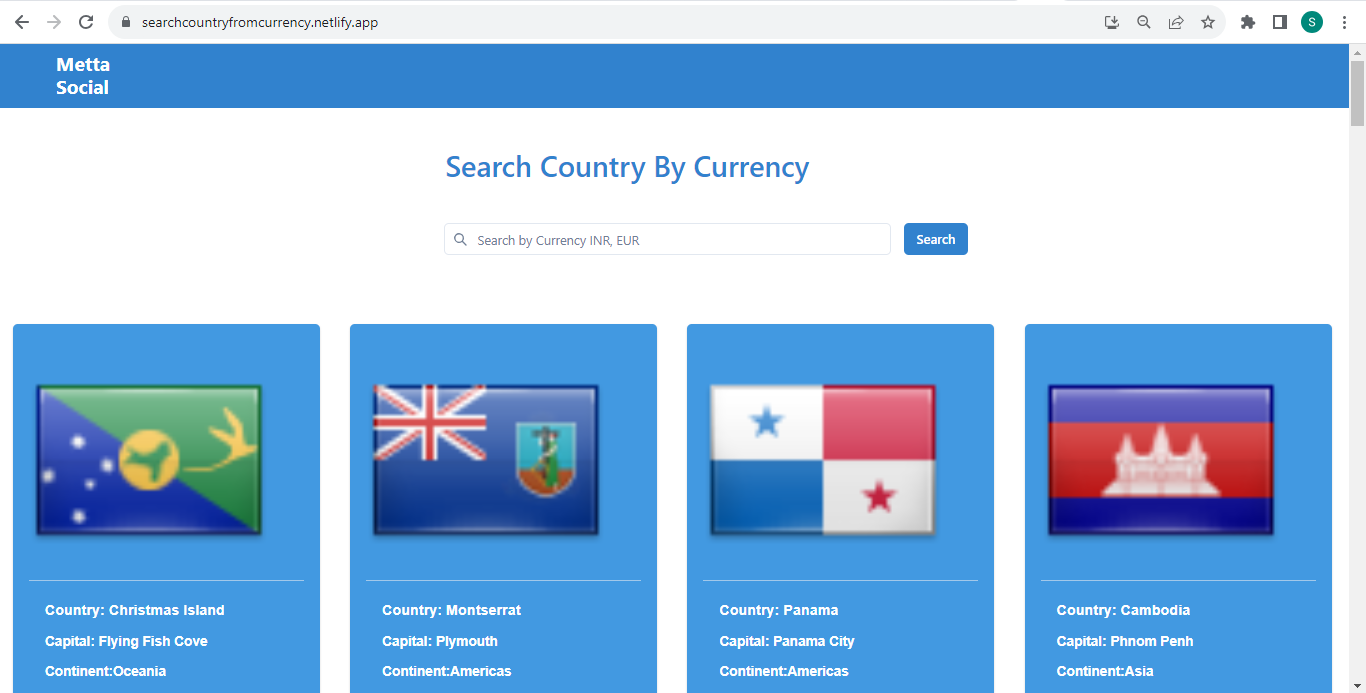
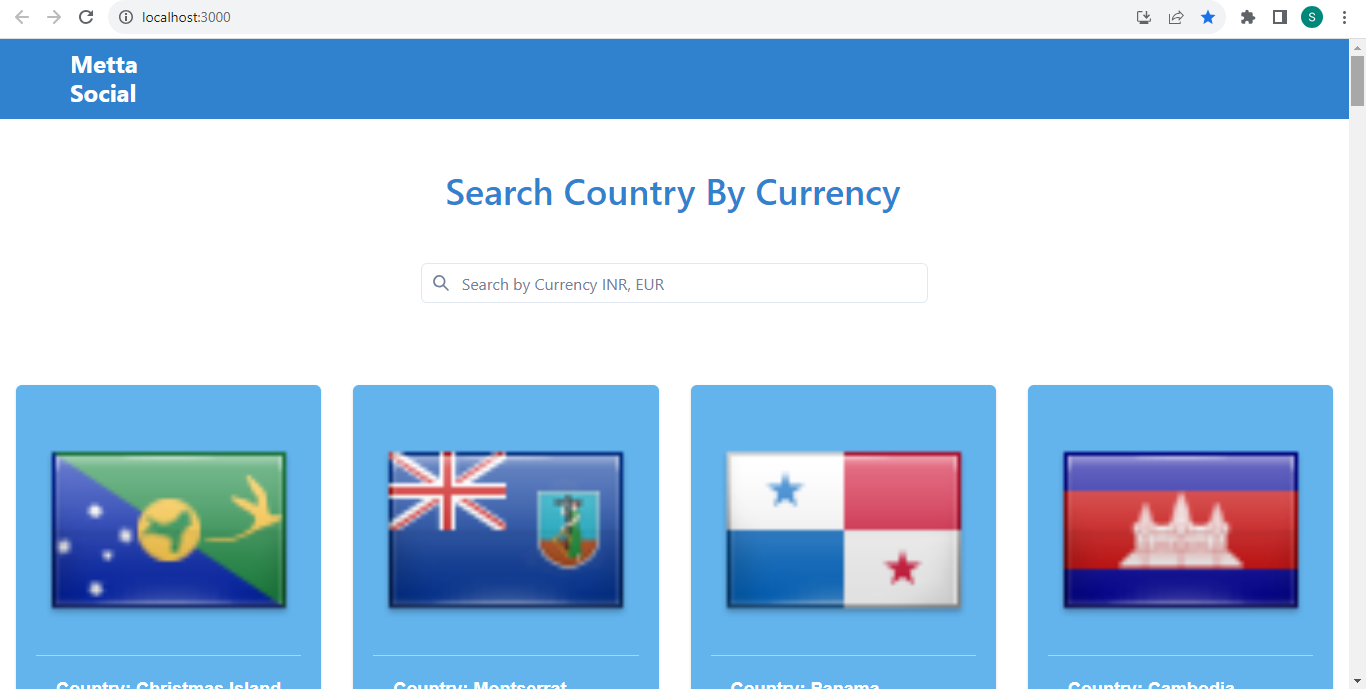
made changes to search button and added custom hook

diff --git a/src/components/CountrySearch.jsx b/src/components/CountrySearch.jsx
@@ -1,90 +1,97 @@
-import React, { useEffect, useState } from 'react'
+import React, { useEffect, useState } from 'react';
 import axios from 'axios';
 import { CountryCard } from './CountryCard';
-import { Box, Button, Flex, Grid, Heading, Input, InputGroup, InputLeftElement, Spinner, Text, useToast } from '@chakra-ui/react';
+import { Box, Flex, Grid, Heading, Input, InputGroup, InputLeftElement, Spinner, Text, useToast } from '@chakra-ui/react';
 import { SearchIcon } from "@chakra-ui/icons";
+import { useDebouncedSearch } from '../hooks/useDebounceSearch';
 
 export const CountrySearch = () => {
-    const [search,setSearch]=useState("")
-    const [result,setResult]=useState([])
-    const [loading,setLoading]=useState(false)
-    const [err,setErr]=useState(false)
-    const toast=useToast()
+  const [search, setSearch] = useState("");
+  const [result, setResult] = useState([]);
+  const [loading, setLoading] = useState(false);
+  const [err, setErr] = useState(false);
+  const toast = useToast();
+  const debouncedSearch = useDebouncedSearch(search, 1000);
 
-
-      const handleClick=()=>{
-        setLoading(true)
-        axios.get(`https://restcountries.com/v3.1/currency/${search.toLowerCase()}`)
-        .then(res=>{setResult(res.data)
-        setLoading(false)
-        setErr(false)
-        setSearch("")
-       
-      })
-        .catch(err=>{
-          console.log(err)
-          setErr(true)
-          setLoading(false)
-      })
-
-      }
-    
-      useEffect(()=>{
-        if(err){
-        toast({
-          title: `Invalid Input!`,
-          description: " Please Enter a valid Currency",
-          status: "error",
-          isClosable: true,
-          position: 'top-right'
+  const handleSearch=()=>{
+    if (debouncedSearch) {
+      setLoading(true);
+      axios.get(`https://restcountries.com/v3.1/currency/${debouncedSearch.toLowerCase()}`)
+        .then(res => {
+          setResult(res.data);
+          setLoading(false);
+          setErr(false);
+          setSearch("");
         })
-      }
-      },[err,toast])
+        .catch(err => {
+          console.log(err);
+          setErr(true);
+          setLoading(false);
+        })
+    }
+  }
+
+  useEffect(() => {
+    handleSearch()
+    setErr(false)
+   
+ 
+  }, [debouncedSearch]);
+
+  useEffect(() => {
+    if (err) {
+      toast({
+        title: `Invalid Input!`,
+        description: " Please Enter a valid Currency",
+        status: "error",
+        isClosable: true,
+        position: 'top-right'
+      });
+    }
+  }, [err, toast]);
 
   return (
-    <Box >
-        <Box>
+    <Box>
+      <Box>
         <Heading mt={50} color={'blue.500'} ml={"33%"} fontWeight={"500"}>Search Country By Currency</Heading>
         <Flex>
-        <InputGroup 
-        width="35%"
-        ml="30%"
-        mt={35}
-        p={4}
-         >
-        <InputLeftElement pointerEvents='none' ml={4} mt={4} color="gray.500">
-        <SearchIcon/>
-        </InputLeftElement>
-         <Input 
-        type="text"
-        placeholder='Search by Currency INR, EUR'
-        value={search} 
-        onChange={(e)=>setSearch(e.target.value)}
-        />
-        </InputGroup>
-        <Button onClick={handleClick} mt={50} backgroundColor={'blue.500'} color={'white'}>Search</Button>
+          <InputGroup
+            width="40%"
+            ml="30%"
+            mt={35}
+            p={4}
+          >
+            <InputLeftElement pointerEvents='none' ml={4} mt={4} color="gray.500">
+              <SearchIcon />
+            </InputLeftElement>
+            <Input
+              type="text"
+              placeholder='Search by Currency INR, EUR'
+              value={search}
+              onChange={(e) => setSearch(e.target.value)}
+            />
+          </InputGroup>
         </Flex>
-        </Box>
-
-       {loading ? (
-      <Box ml={"48%"} mt={50}>
-        <Spinner 
-         thickness='4px'
-         speed='0.65s'
-         emptyColor='gray.200'
-         color='blue.500'
-         size='xl' />
       </Box>
+
+      {loading ? (
+        <Box ml={"48%"} mt={50}>
+          <Spinner
+            thickness='4px'
+            speed='0.65s'
+            emptyColor='gray.200'
+            color='blue.500'
+            size='xl' />
+        </Box>
       ) : err ? null : result.length > 0 ? (
         <Grid templateColumns='repeat(4, 1fr)' mt={50}>
           {result.map((item, id) => (
-            <CountryCard key={id} name={item.name} {...item} />
+            <CountryCard key={id} {...item} />
           ))}
         </Grid>
       ) : (
-        <Text textAlign={'center'} mt={50} color={'tomato'}fontSize={"2xl"}>Please Enter a Currency</Text>
+        <Text textAlign={'center'} mt={50} color={'tomato'} fontSize={"2xl"}>Please Enter a Currency</Text>
       )}
     </Box>
-   
-  )
-}
+  );
+};

diff --git a/src/components/CountryCard.jsx b/src/components/CountryCard.jsx
@@ -1,22 +1,39 @@
 import { Card, CardBody, Divider, Image, Stack, Text } from '@chakra-ui/react'
 import React from 'react'
 
-export const CountryCard = ({name,capital,flags,region,cca2}) => { 
+export const CountryCard = ({name,capital,flags,region,cca2,currencies}) => { 
   return (
-       <Card maxW='sm' bg="blue.400" color='white' ml={'4'} mr={'4'} mt={'5'}> 
-         <CardBody >
+       <Card maxW='sm' bg="blue.300" color='white' m={'4'}> 
+         <CardBody>
            {Object.entries(flags)? <Image
              src={`https://flagsapi.com/${cca2}/shiny/64.png`}
-             borderRadius='lg'
-             boxSize='300px'
+             boxSize='250px'
              objectFit='fill'
+             ml={'2'}
              alt={`${name.common}'s Flag Image failed to load` }
              />:null}
           <Divider/>
-          <Stack mt='6' spacing='3' ml={"5"}>
-           {Object.entries(name.common)?<Text fontSize={18} fontWeight={"bold"} fontFamily={"sans-serif"}>Country: {name.common}</Text>:null}
-           {Object.entries(capital)?<Text fontSize={17} fontWeight={"bold"} fontFamily={"sans-serif"}>Capital: {capital}</Text>:null}
-           {Object.entries(region)?<Text fontSize={17} fontWeight={"bold"} fontFamily={"sans-serif"}>Continent:{region}</Text>:null}
+          <Stack mt='5' spacing='2' ml={"5"}>
+          {name.common && (
+          <Text fontSize={18} fontWeight={"bold"} fontFamily={"sans-serif"}>
+           Country: {name.common}
+          </Text>
+          )}
+           {capital && (
+           <Text fontSize={18} fontWeight={"bold"} fontFamily={"sans-serif"}>
+           capital: {capital}
+           </Text>
+           )}
+           {region && (
+           <Text fontSize={18} fontWeight={"bold"} fontFamily={"sans-serif"}>
+           Continent: {region}
+           </Text>
+           )}
+           {currencies && (
+           <Text fontSize={17} fontWeight={"bold"} fontFamily={"sans-serif"}>
+            Currencies: {Object.values(currencies).map(currency => currency.name).join(', ')}
+           </Text>
+           )}
           </Stack>
         </CardBody>
       </Card> 

diff --git a/src/hooks/useDebounceSearch.jsx b/src/hooks/useDebounceSearch.jsx
@@ -1,0 +1,15 @@
+import React, { useEffect, useState } from 'react'
+
+export const useDebouncedSearch = (value, delay) => {
+    const [searchvalue, setSearchvalue] = useState(value);
+  
+    useEffect(() => {
+      const timeoutId = setTimeout(() => {
+        setSearchvalue(value);
+      }, delay);
+  
+      return () => clearTimeout(timeoutId);
+    }, [value, delay]);
+  
+    return searchvalue;
+  };
